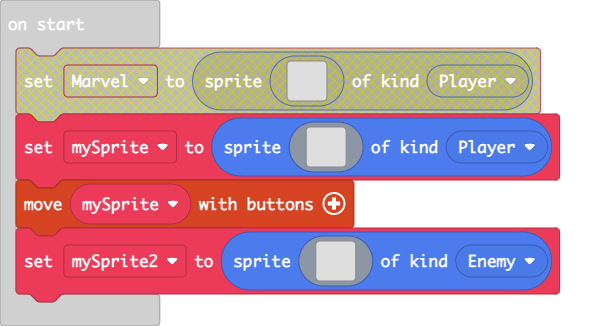
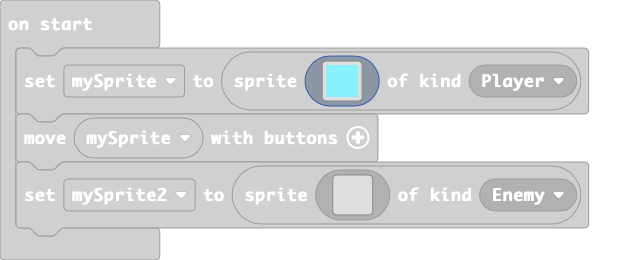
Update pxt.json, main.blocks, main.ts

diff --git a/main.ts b/main.ts
@@ -1,20 +1,5 @@
 let mySprite = sprites.create(img`
-    . . . . . . . . . . . . . . . . 
-    . . . . . . . . . . . . . . . . 
-    . . . . . . . . . . . . . . . . 
-    . . . . . . . . . . . . . . . . 
-    . . . . . . . . . . . . . . . . 
-    . . . . . . . . . . . . . . . . 
-    . . . . . . . . . . . . . . . . 
-    . . . . . . . . . . . . . . . . 
-    . . . . . . . . . . . . . . . . 
-    . . . . . . . . . . . . . . . . 
-    . . . . . . . . . . . . . . . . 
-    . . . . . . . . . . . . . . . . 
-    . . . . . . . . . . . . . . . . 
-    . . . . . . . . . . . . . . . . 
-    . . . . . . . . . . . . . . . . 
-    . . . . . . . . . . . . . . . . 
+    9 
     `, SpriteKind.Player)
 controller.moveSprite(mySprite)
 let mySprite2 = sprites.create(img`
